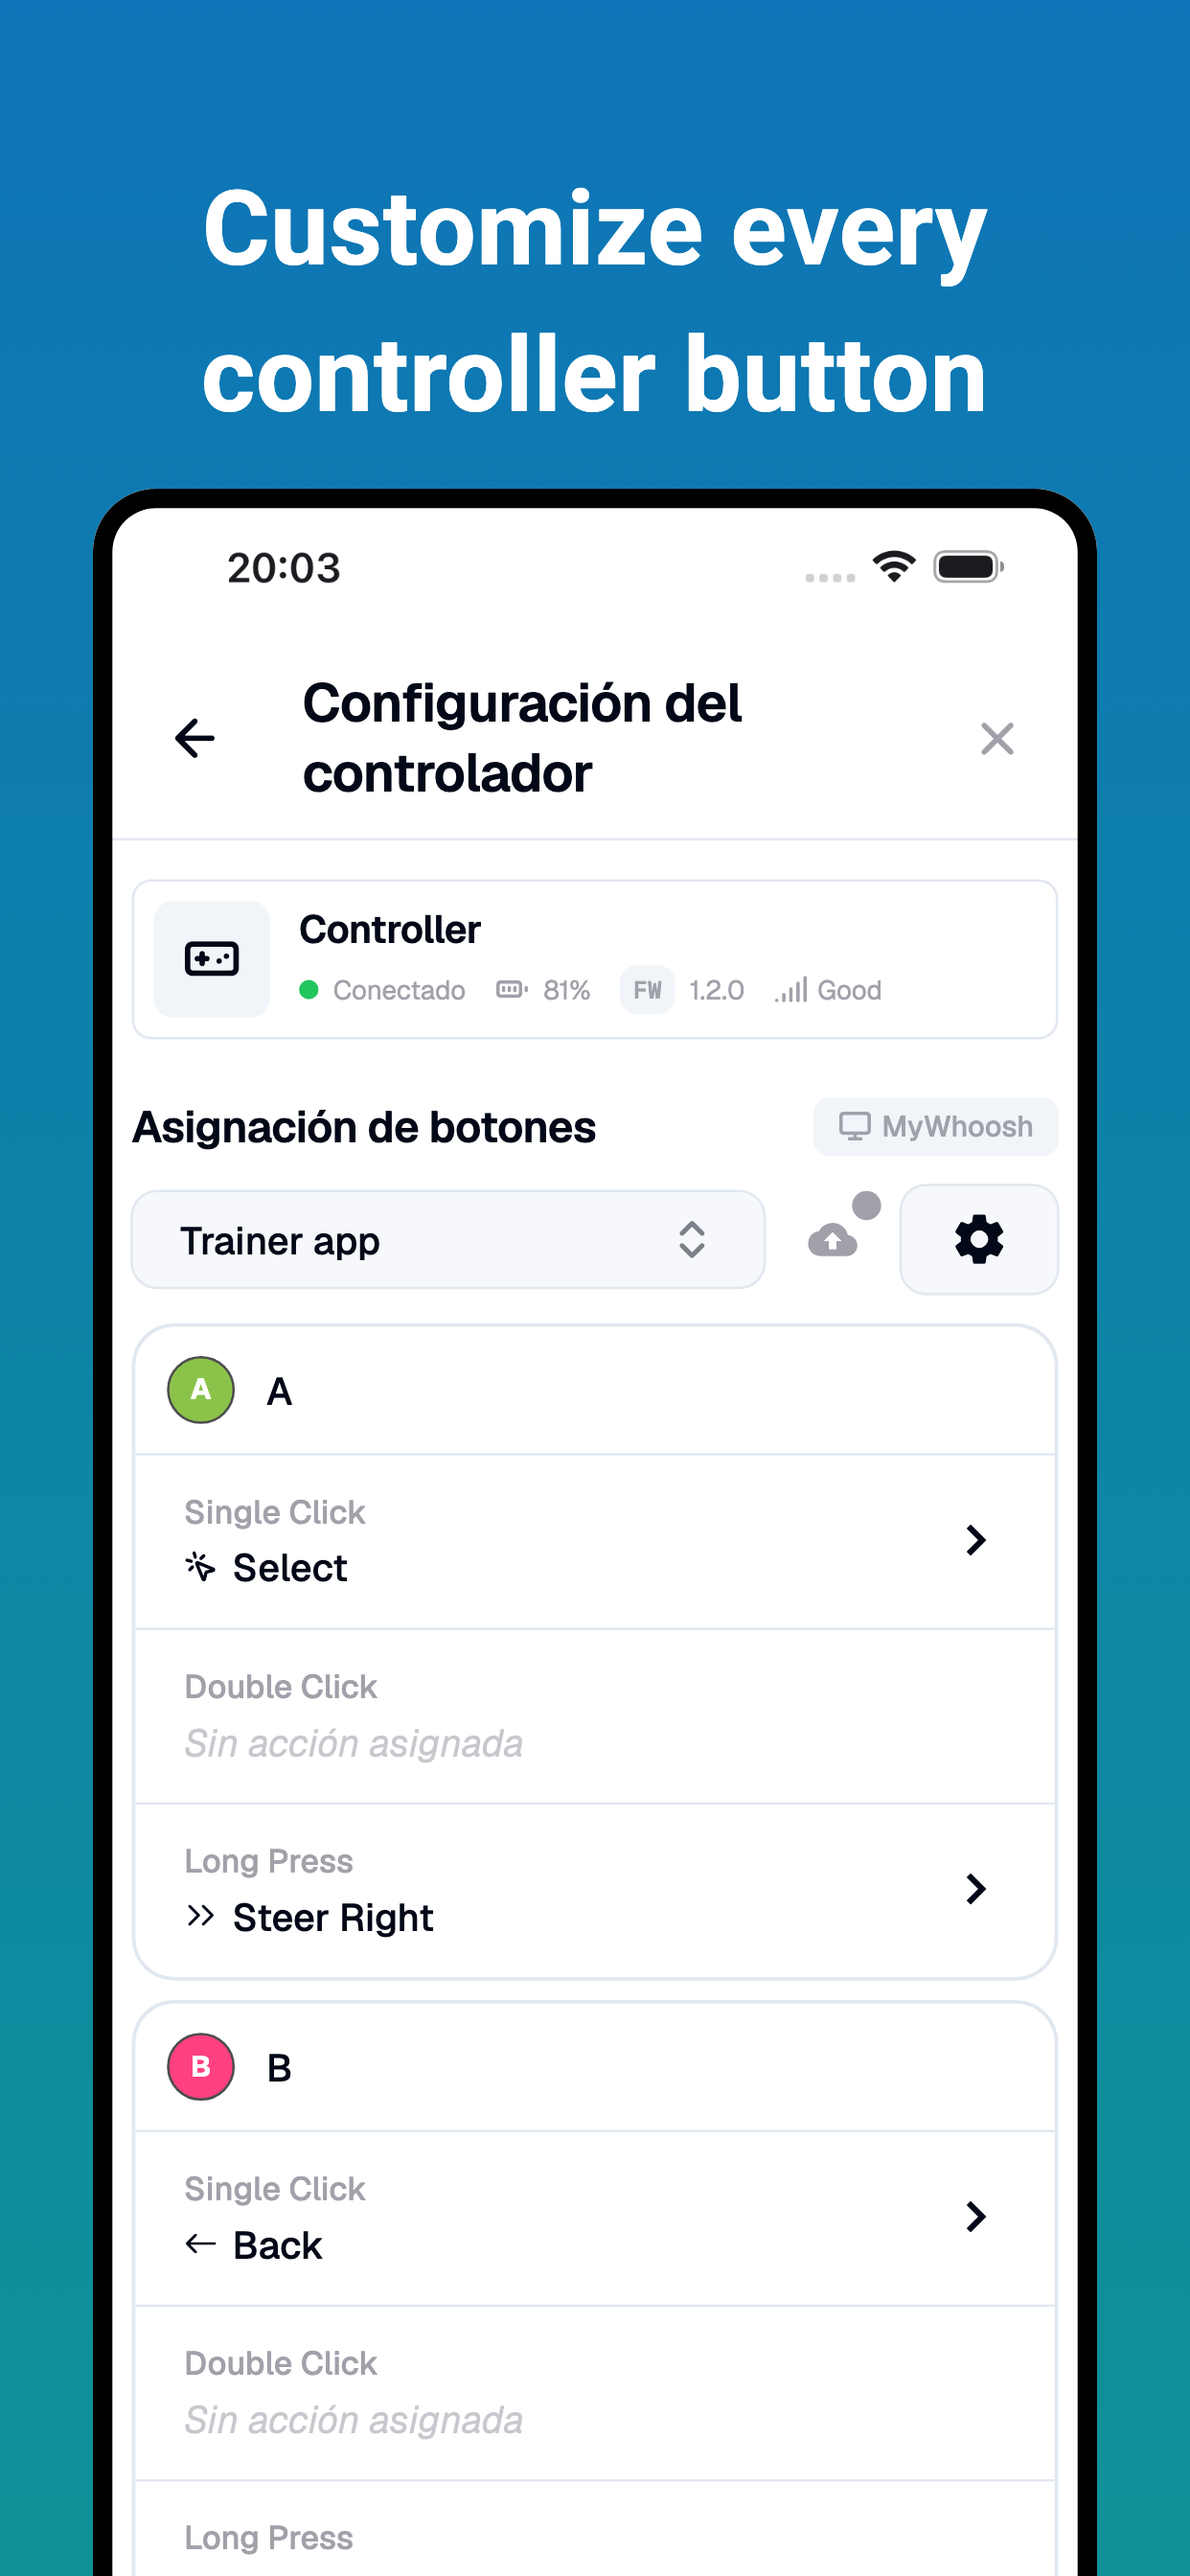
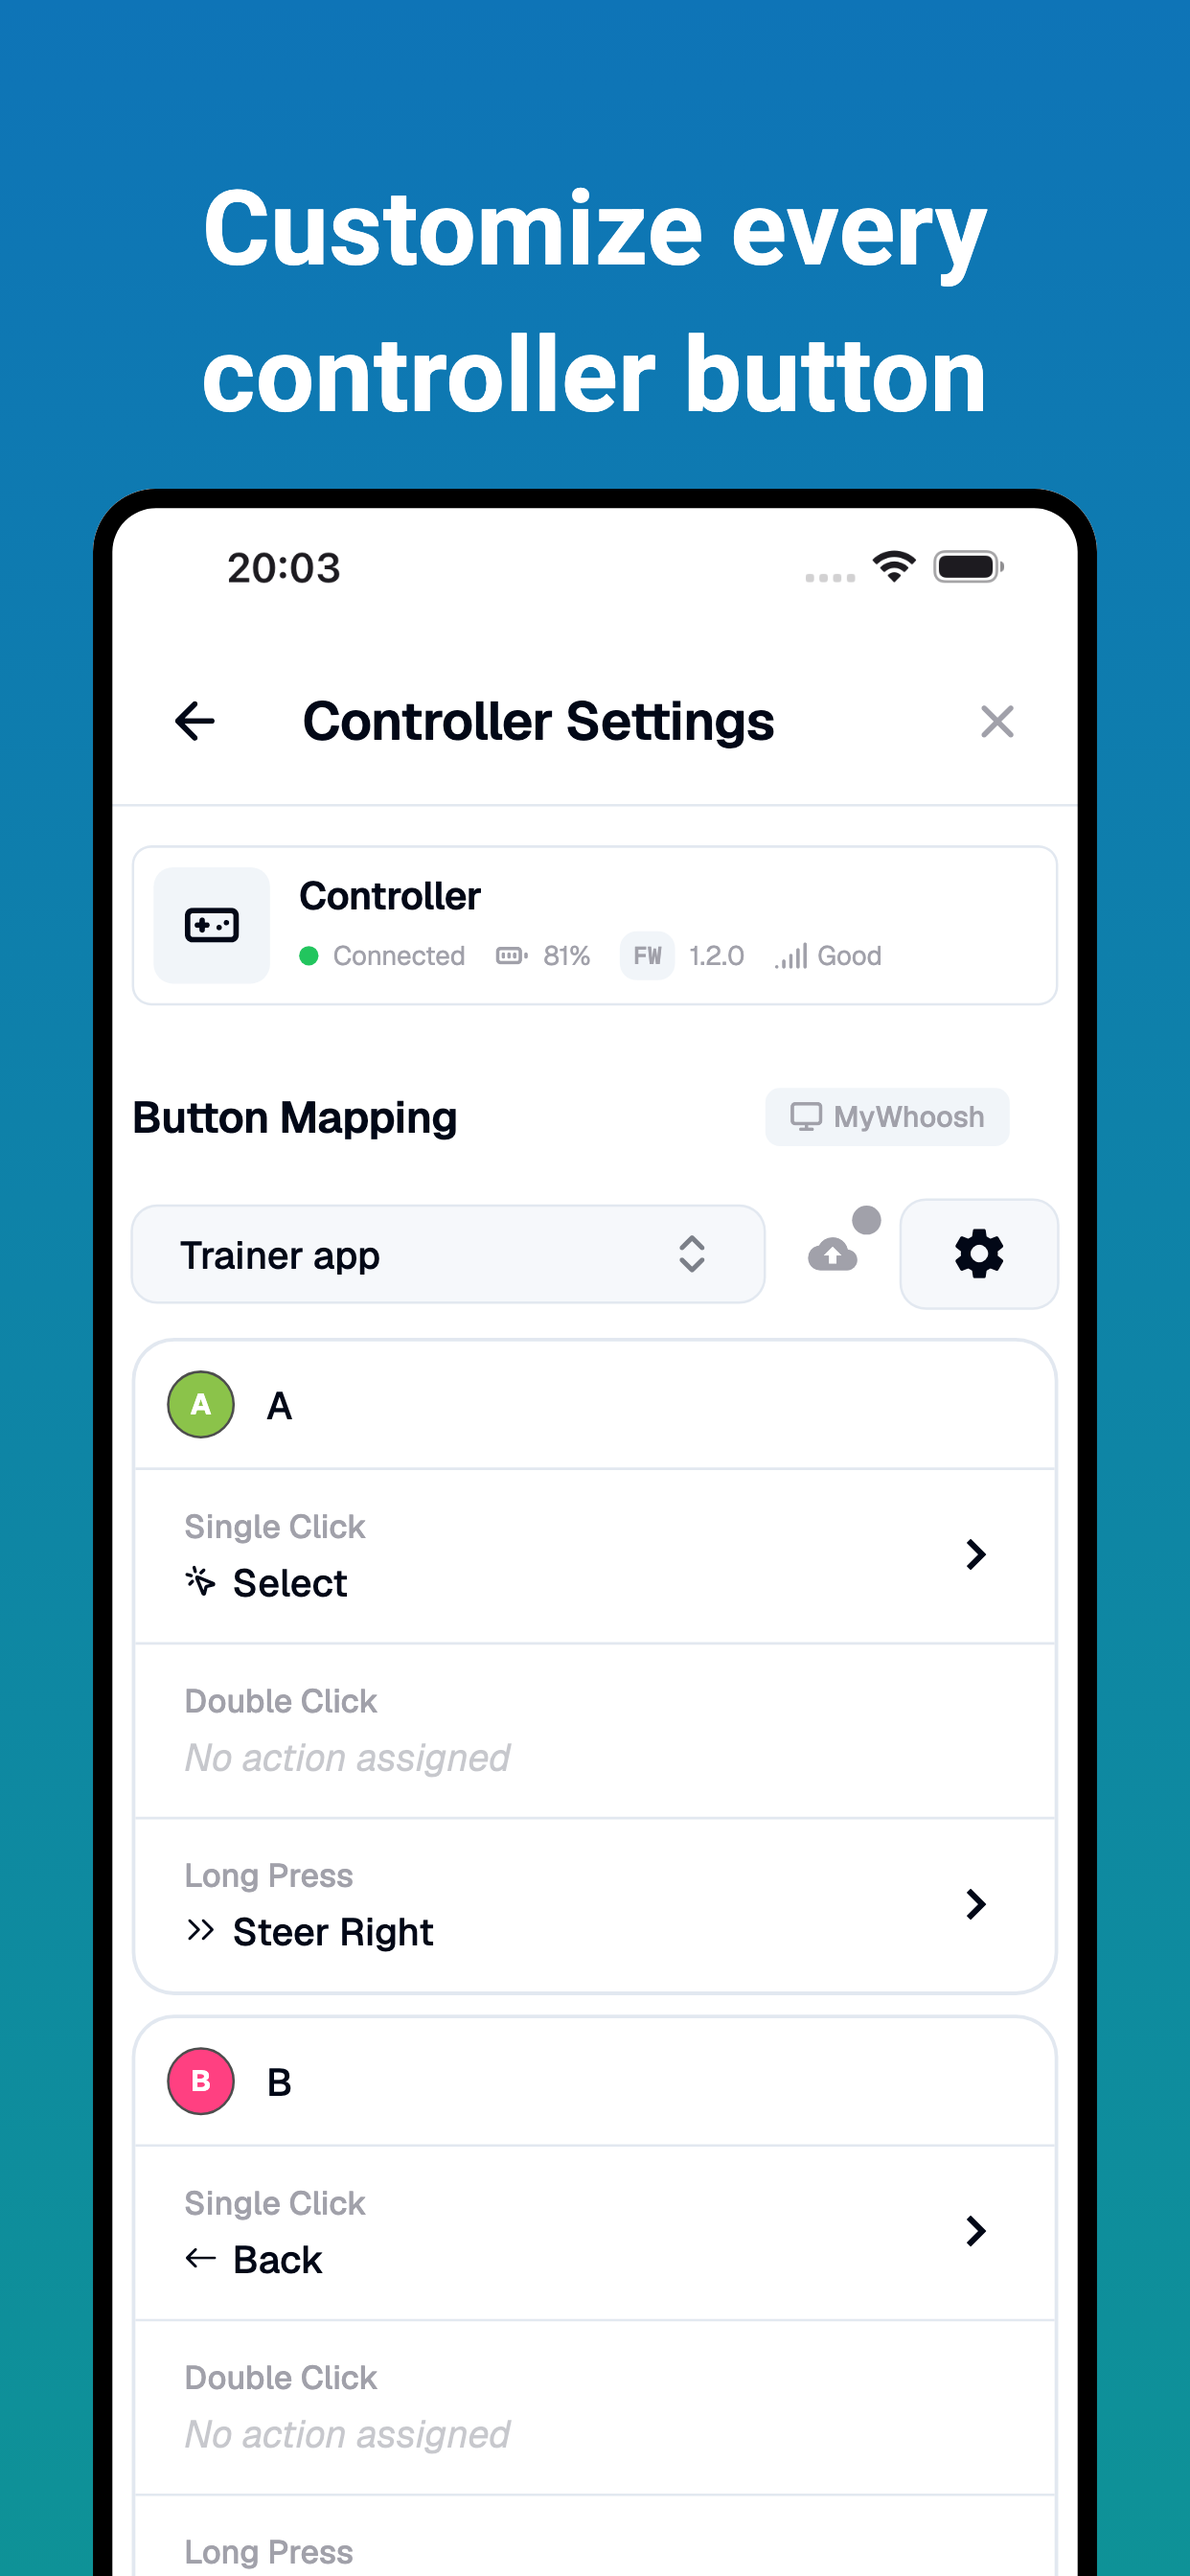
updated screenshots

diff --git a/test/screenshot_test.dart b/test/screenshot_test.dart
@@ -138,7 +138,7 @@ Future<void> main() async {
                   required Widget child,
                 }) => CustomFrame(
                   platform: size.type,
-                  title: 'Control your trainer app using ANY controller',
+                  title: 'Control any trainer with ANY controller',
                   device: device,
                   child: child,
                 ),

diff --git a/lib/main.dart b/lib/main.dart
@@ -222,7 +222,7 @@ class _BikeControlAppState extends State<BikeControlApp> {
           secondary: () => Color(0xFF3A3A3A),
         ),
       ),
-      locale: screenshotMode ? Locale('es') : null,
+      locale: screenshotMode ? Locale('en') : null,
       theme: ThemeData(
         colorScheme: ColorSchemes.lightSlate.copyWith(
           mutedForeground: () => Color(0xFFA1A1AA),
